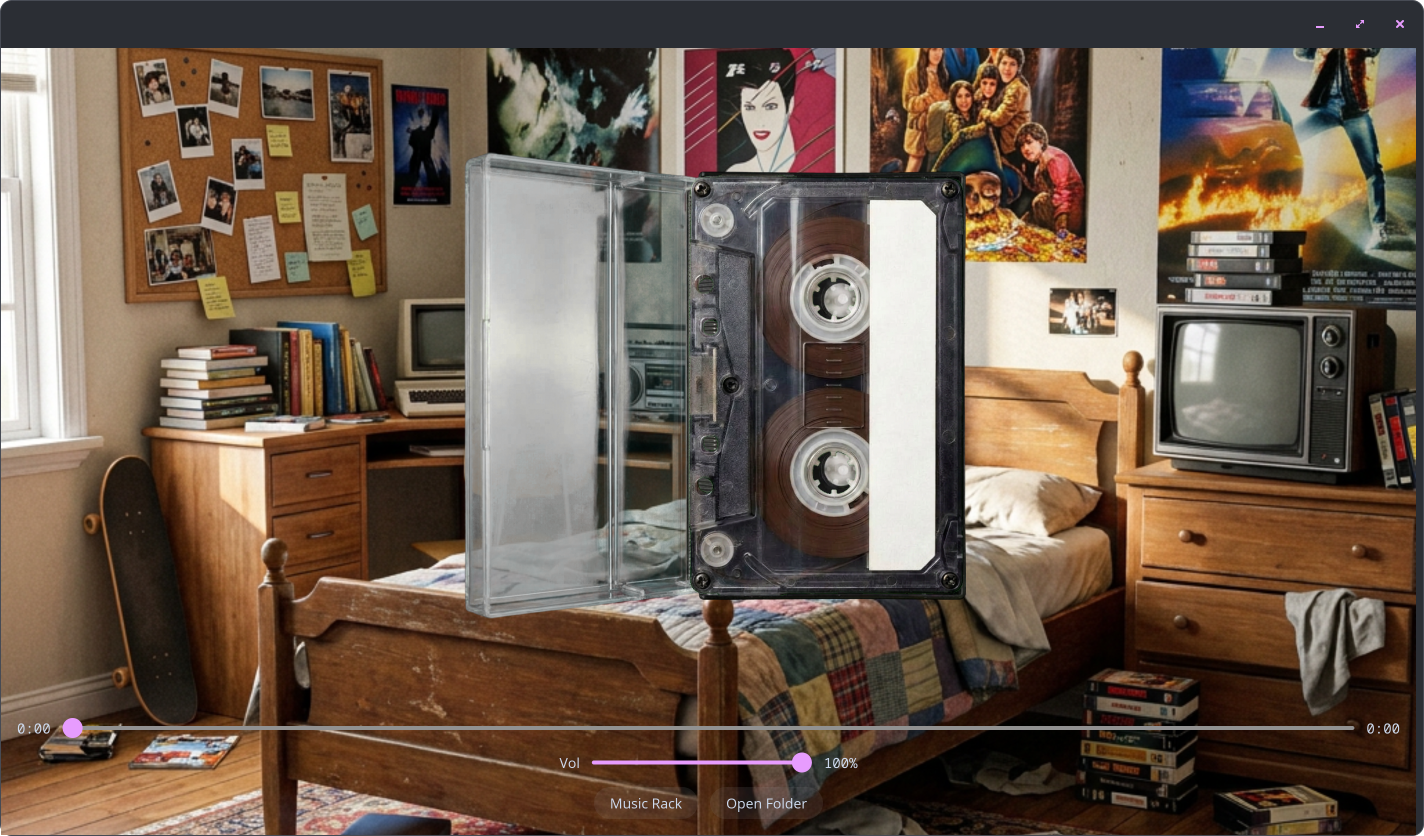
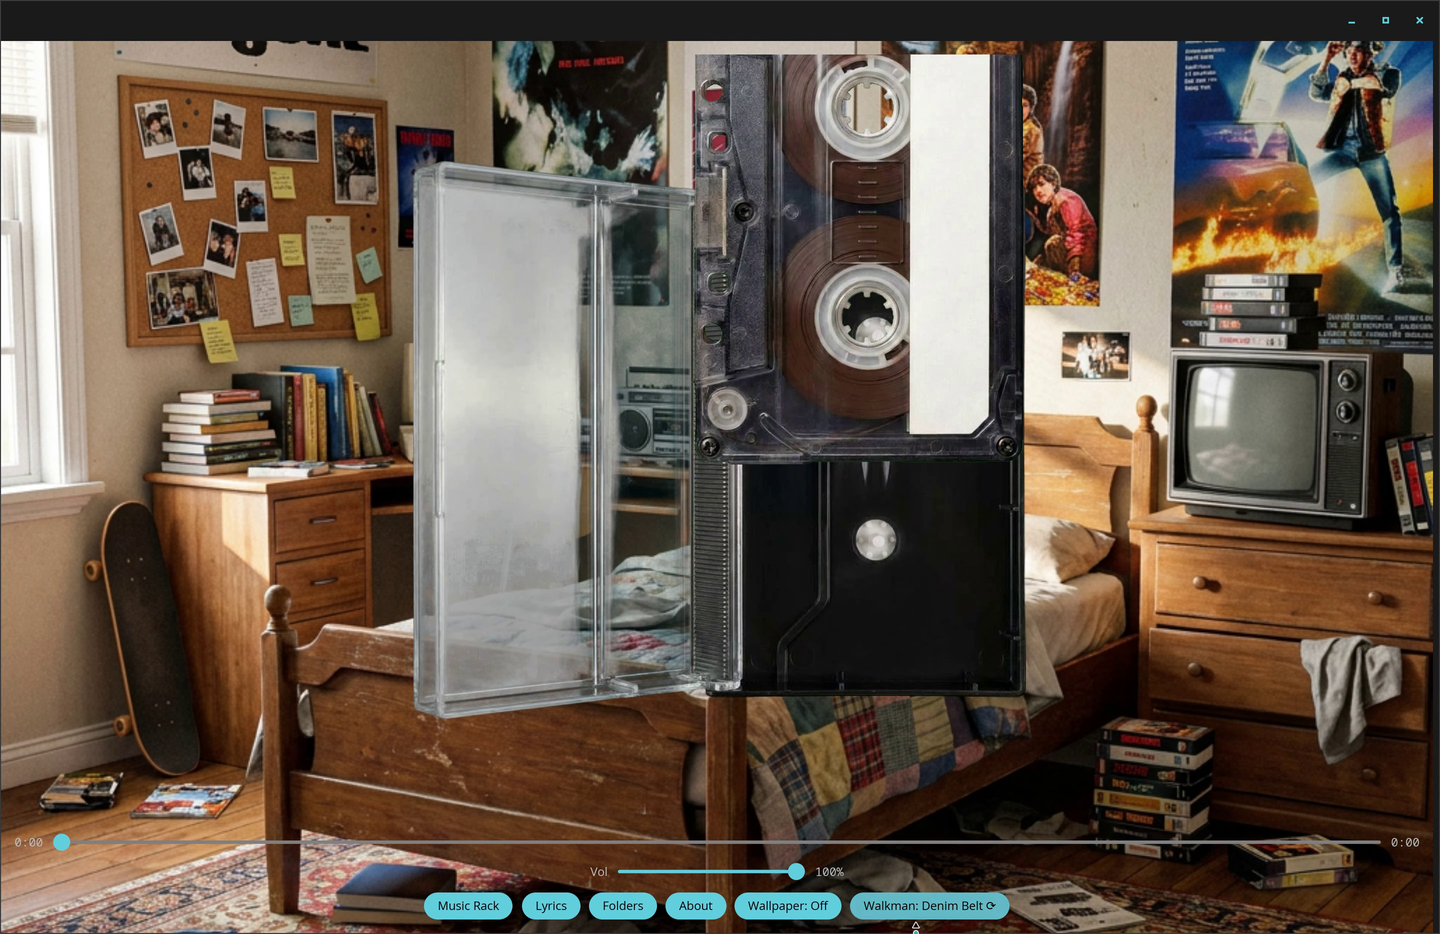
Replace screenshots with current ones and add the headphone plug

diff --git a/README.md b/README.md
@@ -29,8 +29,6 @@ The deck is a real photograph. The reels spin, the keys press down, and every al
 
 ## Screenshots
 
-**Note:** these screenshots are from an earlier version, so some buttons look different or are missing.
-
 **Cassette Rack:** one cassette per album, with its cover. Browse with the arrow keys or Prev and Next. Click the cassette at the front, or Play, to put it in the deck.
 
 ![Cassette Rack](docs/cassette-rack.png)
@@ -39,13 +37,17 @@ The deck is a real photograph. The reels spin, the keys press down, and every al
 
 ![J-card](docs/jcard.png)
 
+**Loading a tape:** the case opens, the tape lifts out and slides into the deck.
+
+![Loading a tape](docs/insert.png)
+
 **Lyrics:** click **Lyrics** on the Player or the J-card to read the words. The button only shows up when the song has lyrics.
 
 ![Lyrics](docs/lyrics.png)
 
-**Loading a tape:** the case opens, the tape lifts out and slides into the deck.
+**Headphone plug:** click the plug to pull it out and mute the music. Click it again to plug it back in.
 
-![Insert animation](docs/insert.png)
+![Headphone plug pulled out](docs/unplugged.png)
 
 **Colours:** the Walkman button on the Player cycles through the five colours. The deck at the top of this page is Denim Belt. This one is Red.
 
